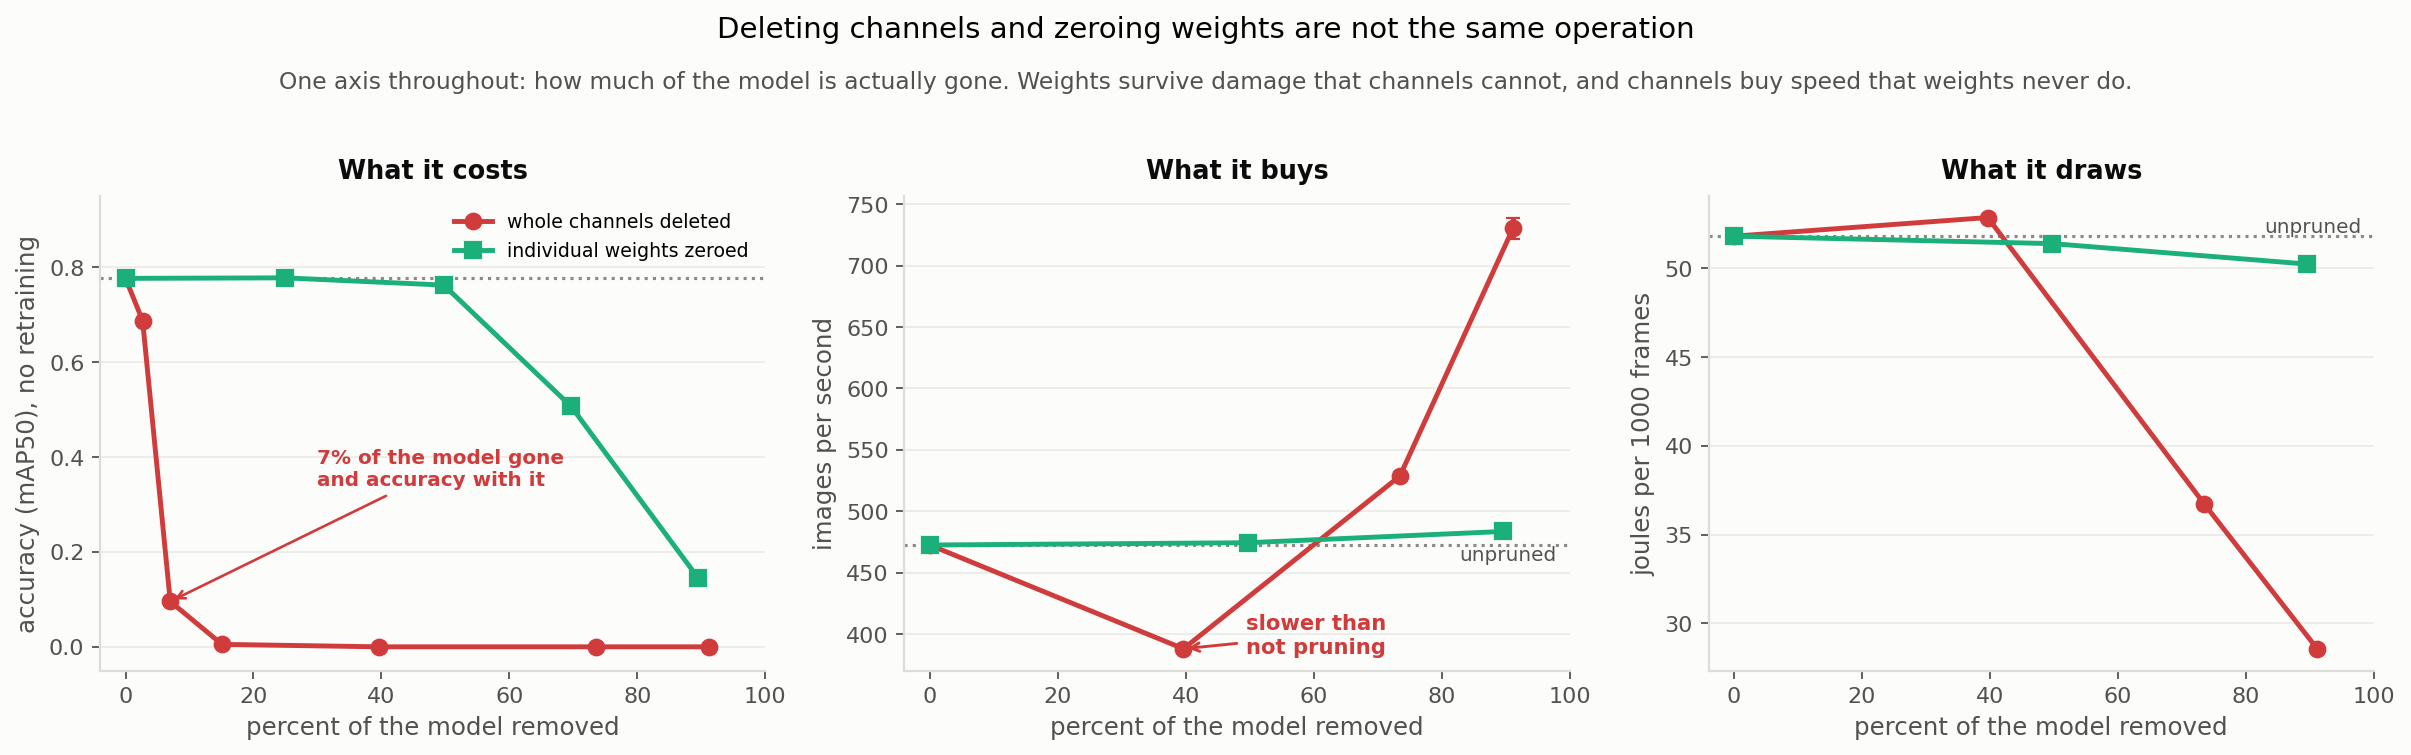
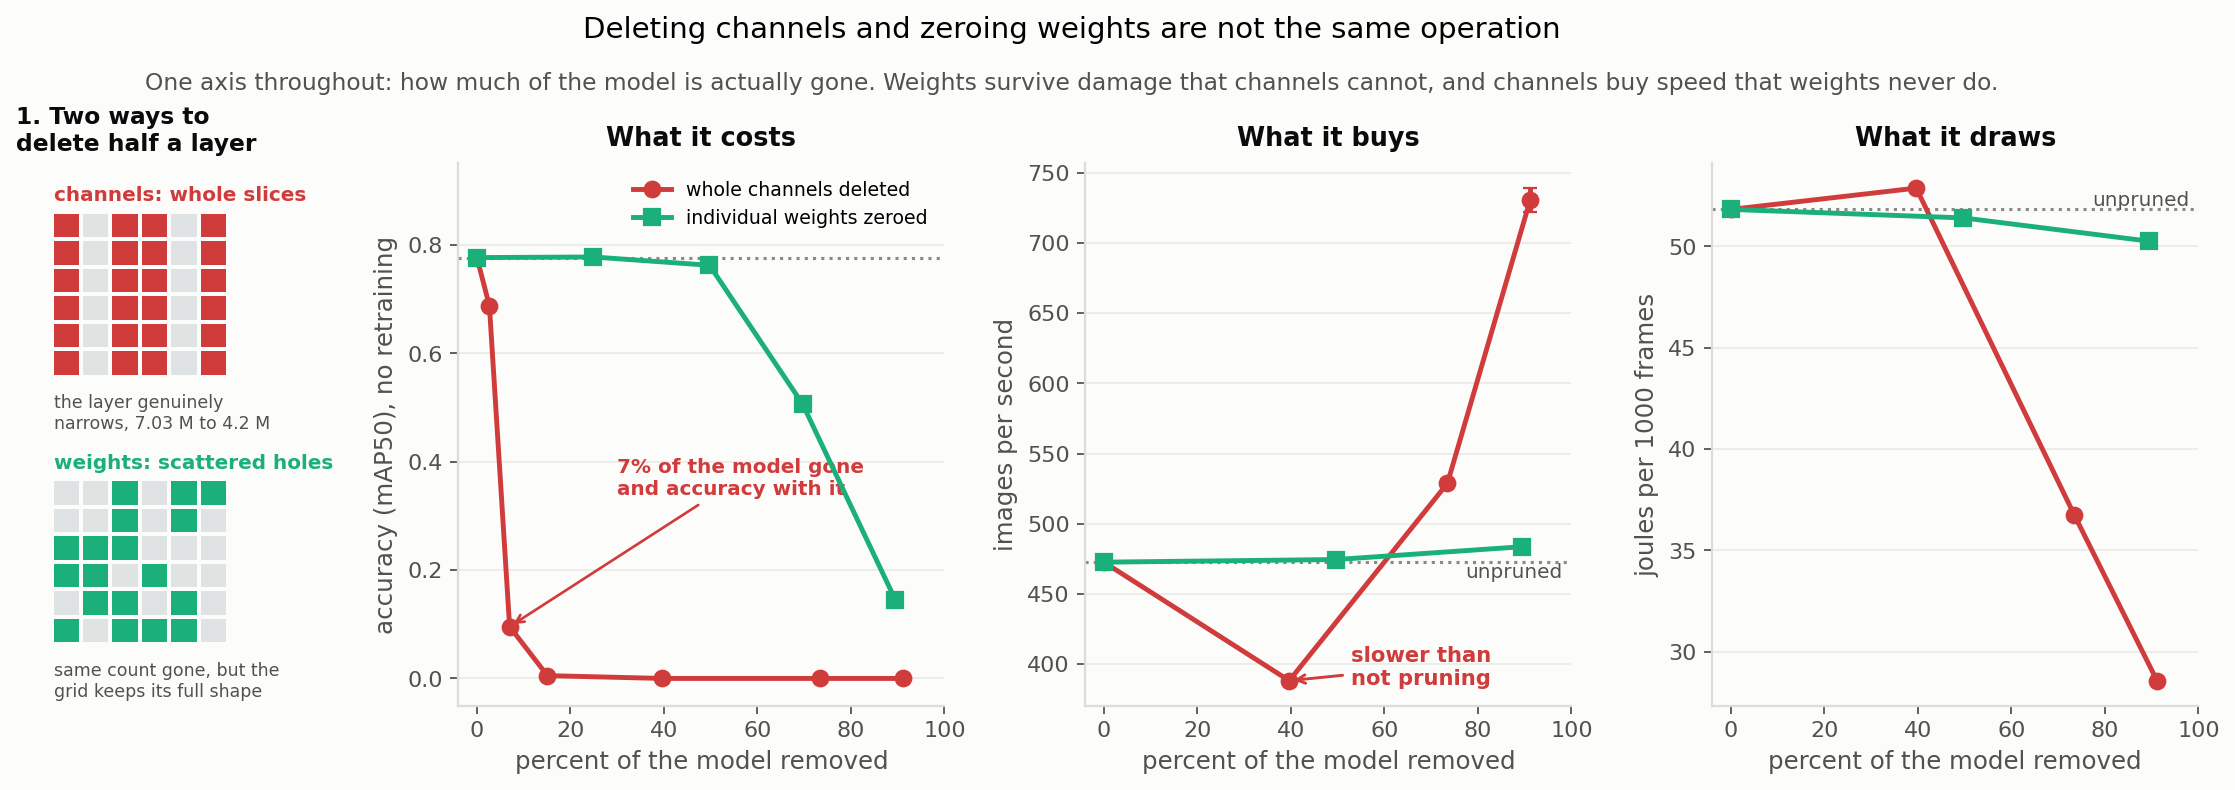
XP6 E5 figure: add a panel 1 showing the two operations
A compact schematic now leads the figure: one weight grid with whole columns
deleted (channels, the layer narrows) above another with the same count of cells
scattered out (weights, the grid keeps its shape). It makes the section's whole
point visible before the three data panels: same amount gone, different shape.

diff --git a/analysis/make_figures.py b/analysis/make_figures.py
@@ -930,11 +930,43 @@ def fig_xp06e5(records) -> Path | None:
     wgt_e = eseries(["weight50", "weight90"])
 
     CH, WG = style.RED, style.AQUA
-    fig, axes = plt.subplots(1, 3, figsize=(15.2, 4.3))
+    import numpy as np
+    from matplotlib.patches import Rectangle
+    fig = plt.figure(figsize=(17.6, 4.4))
+    gs = fig.add_gridspec(1, 4, width_ratios=[0.62, 1, 1, 1], wspace=0.32)
+    sch = fig.add_subplot(gs[0, 0])
+    axes = [fig.add_subplot(gs[0, 1]), fig.add_subplot(gs[0, 2]), fig.add_subplot(gs[0, 3])]
     fig.suptitle("Deleting channels and zeroing weights are not the same operation", y=1.09)
     style.subtitle(fig, "One axis throughout: how much of the model is actually gone. Weights "
                         "survive damage that channels cannot, and channels buy speed that "
                         "weights never do.", y=1.01)
+
+    # --- panel 1: the two operations, on the same weight grid -------------
+    sch.set_xlim(0, 8); sch.set_ylim(0, 15.4); sch.axis("off")
+    sch.set_title("1. Two ways to\ndelete half a layer", fontsize=10.5, pad=6, loc="left")
+    R, C, cell = 6, 6, 0.78
+
+    def grid(y0, dead, colour, title, note):
+        for r in range(R):
+            for c in range(C):
+                on = (r, c) not in dead
+                sch.add_patch(Rectangle((1 + c * cell, y0 + (R - 1 - r) * cell),
+                                        cell * 0.86, cell * 0.86,
+                                        facecolor=colour if on else "#dfe3e4",
+                                        edgecolor="none"))
+        sch.text(1, y0 + R * cell + 0.15, title, fontsize=9, fontweight="bold",
+                 color=colour, va="bottom")
+        sch.text(1, y0 - 0.55, note, fontsize=7.8, color=style.INK_2, va="top")
+
+    # channels: whole columns removed (a slice). weights: scattered, same count.
+    chan_dead = {(r, c) for r in range(R) for c in (1, 4)}
+    grid(9.4, chan_dead, CH, "channels: whole slices",
+         "the layer genuinely\nnarrows, 7.03 M to 4.2 M")
+    rng = np.random.default_rng(1)
+    flat = rng.permutation(R * C)[: R * C // 2]
+    wgt_dead = {(i // C, i % C) for i in flat}
+    grid(1.8, wgt_dead, WG, "weights: scattered holes",
+         "same count gone, but the\ngrid keeps its full shape")
 
     ax = axes[0]
     ax.plot(*zip(*([(0.0, UNPRUNED_MAP50)] + list(chan_acc))), "o-", color=CH,
